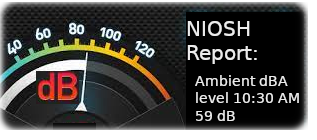
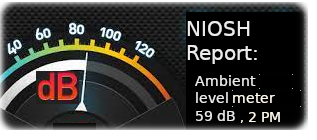
mv to base meter pdf file w 10 min duration at 2PM

Changed region(s): [[0.7098, 0.6571, 0.9653, 0.7429], [0.7382, 0.8, 0.9085, 0.8857], [0.795, 0.5429, 0.9085, 0.6286]]

diff --git a/tc_index.html b/tc_index.html
@@ -70,7 +70,7 @@ height="0" width="0" style="display:none;visibility:hidden"></iframe></noscript>
       </audio>
       <img src="pics/tc_btn_15-11.png" onClick="document.getElementById('audio_6').play(); return false;" width="350" height="108"/>
       <hr>
-      <a href="pics/niosh-base_AM.pdf"> <img src="pics/tc_meter_ambient_btn.png"  ><a/>
+      <a href="pics/niosh_base-PM.pdf"> <img src="pics/tc_meter_ambient_btn.png"  ><a/>
       <hr>
       <a href="pics/niosh-6_36_48-PM.pdf"> <img src="pics/tc_meter_btn-5-15.png"  ><a/>
         <hr>
